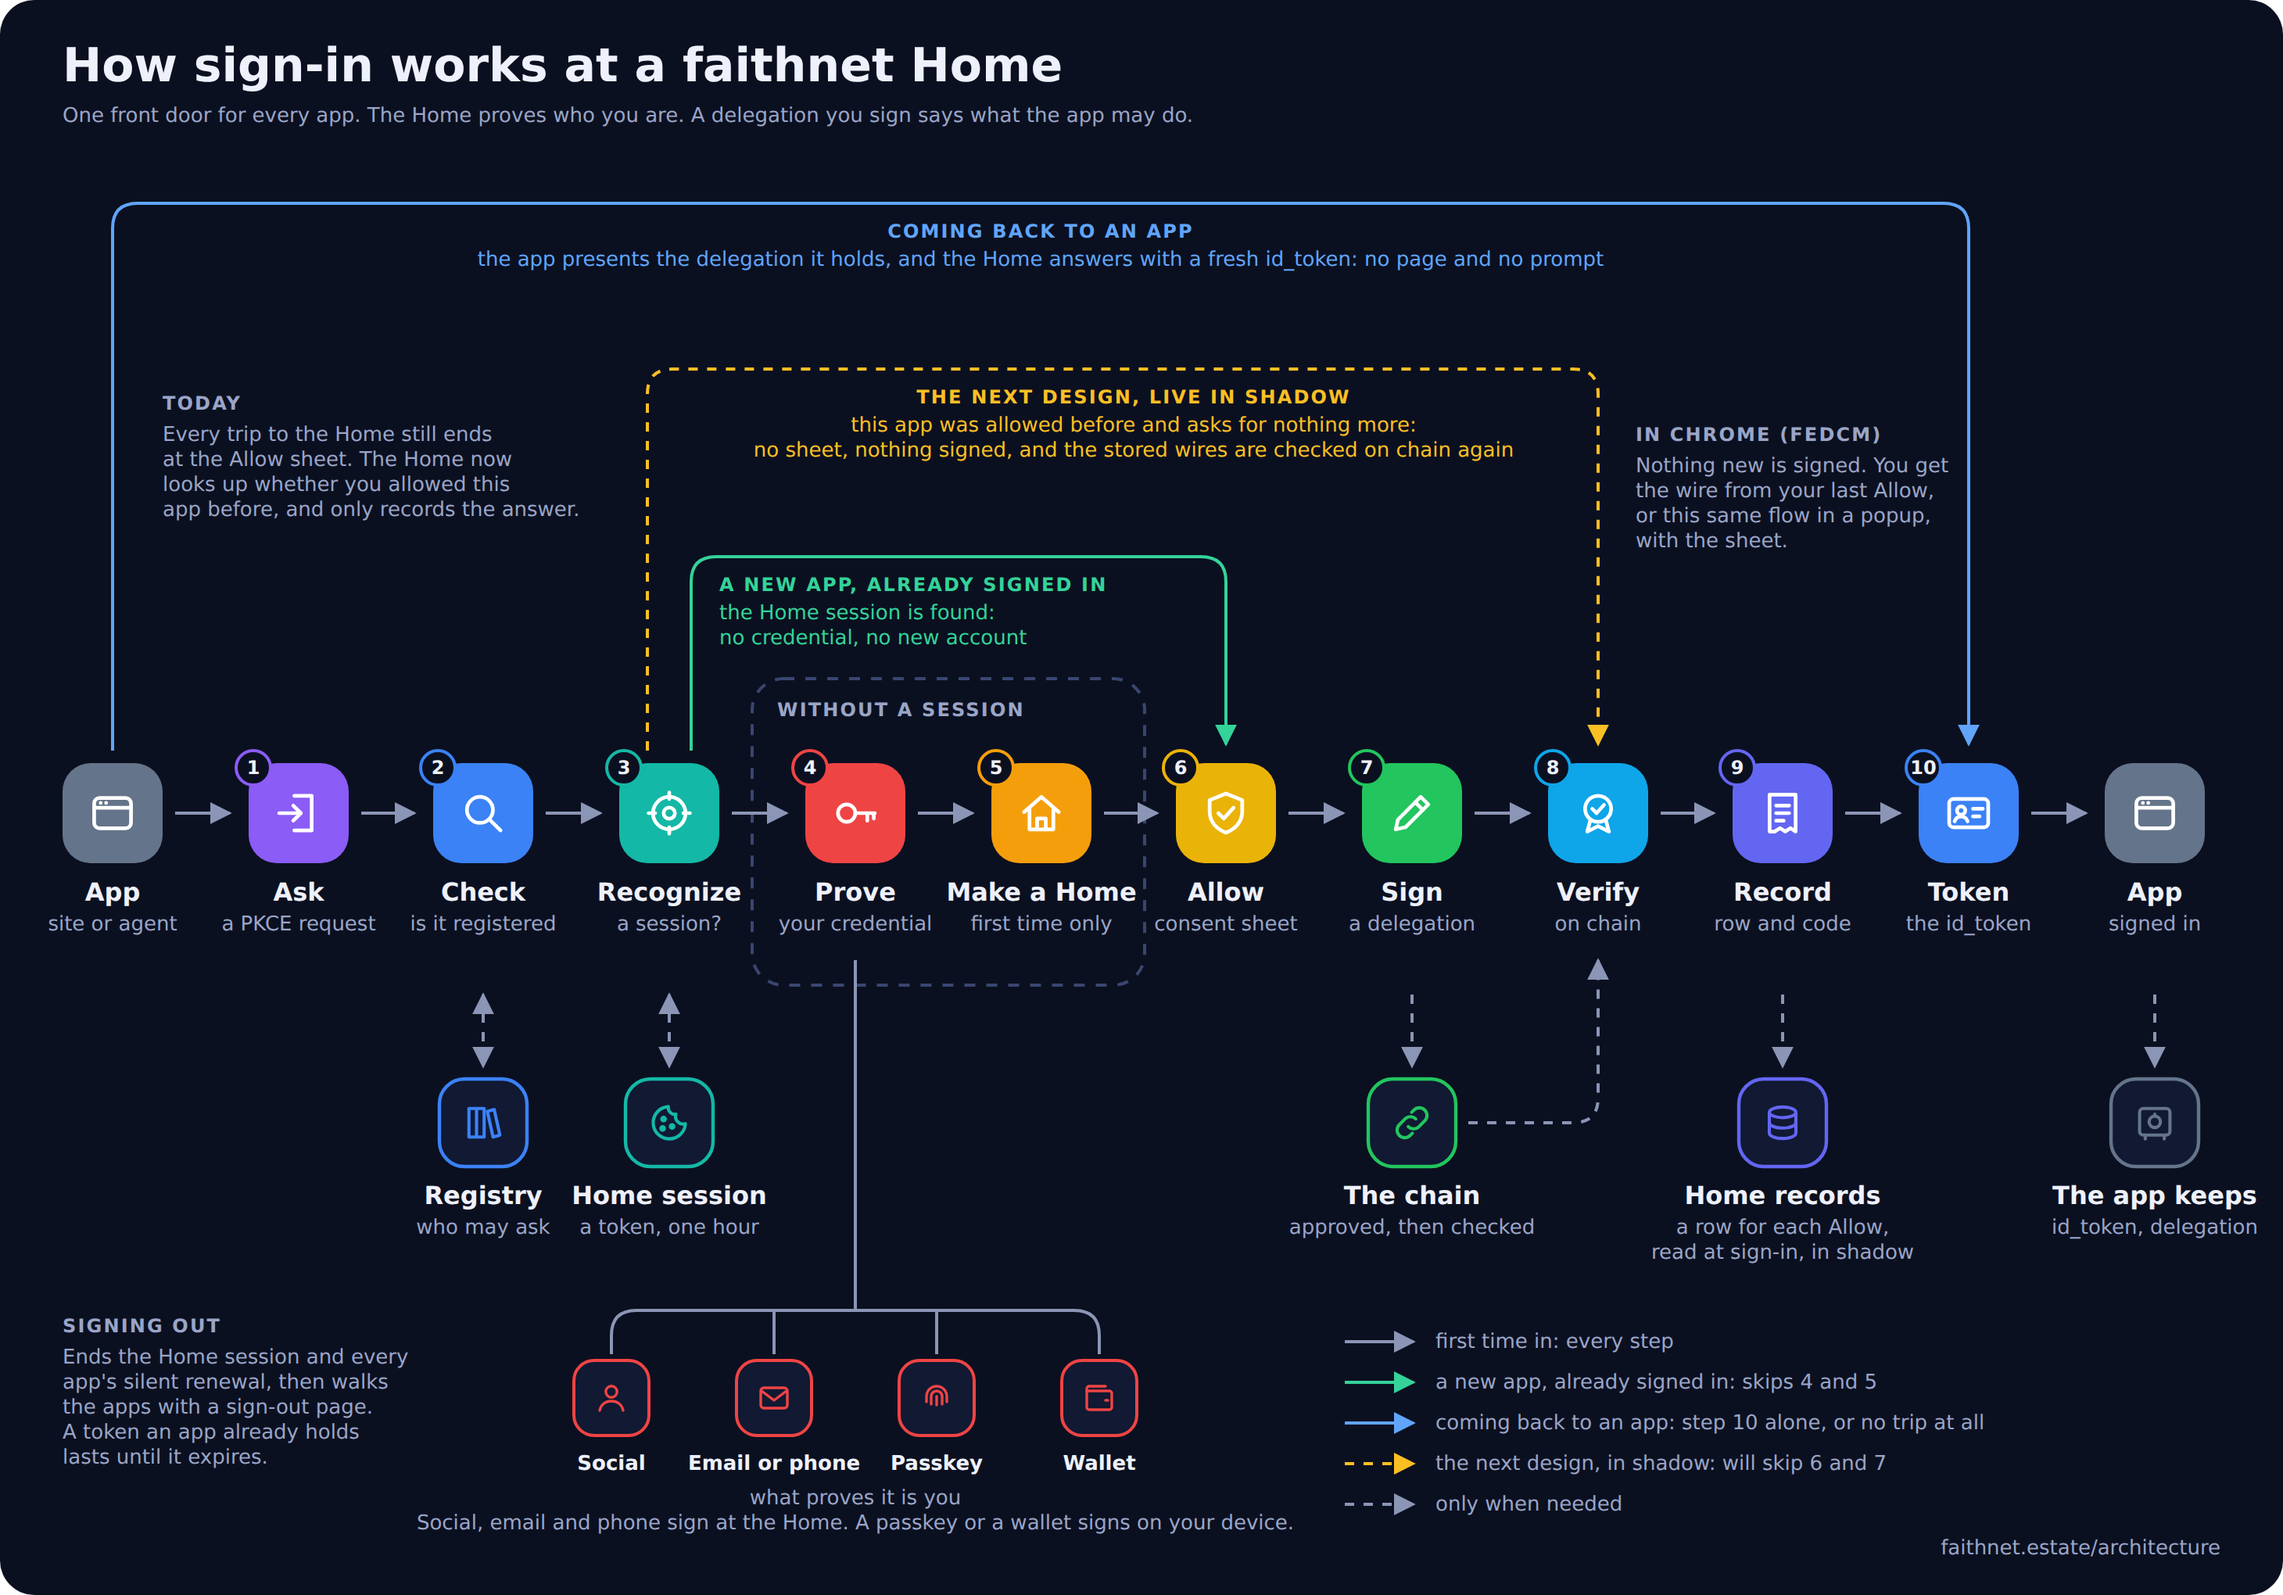
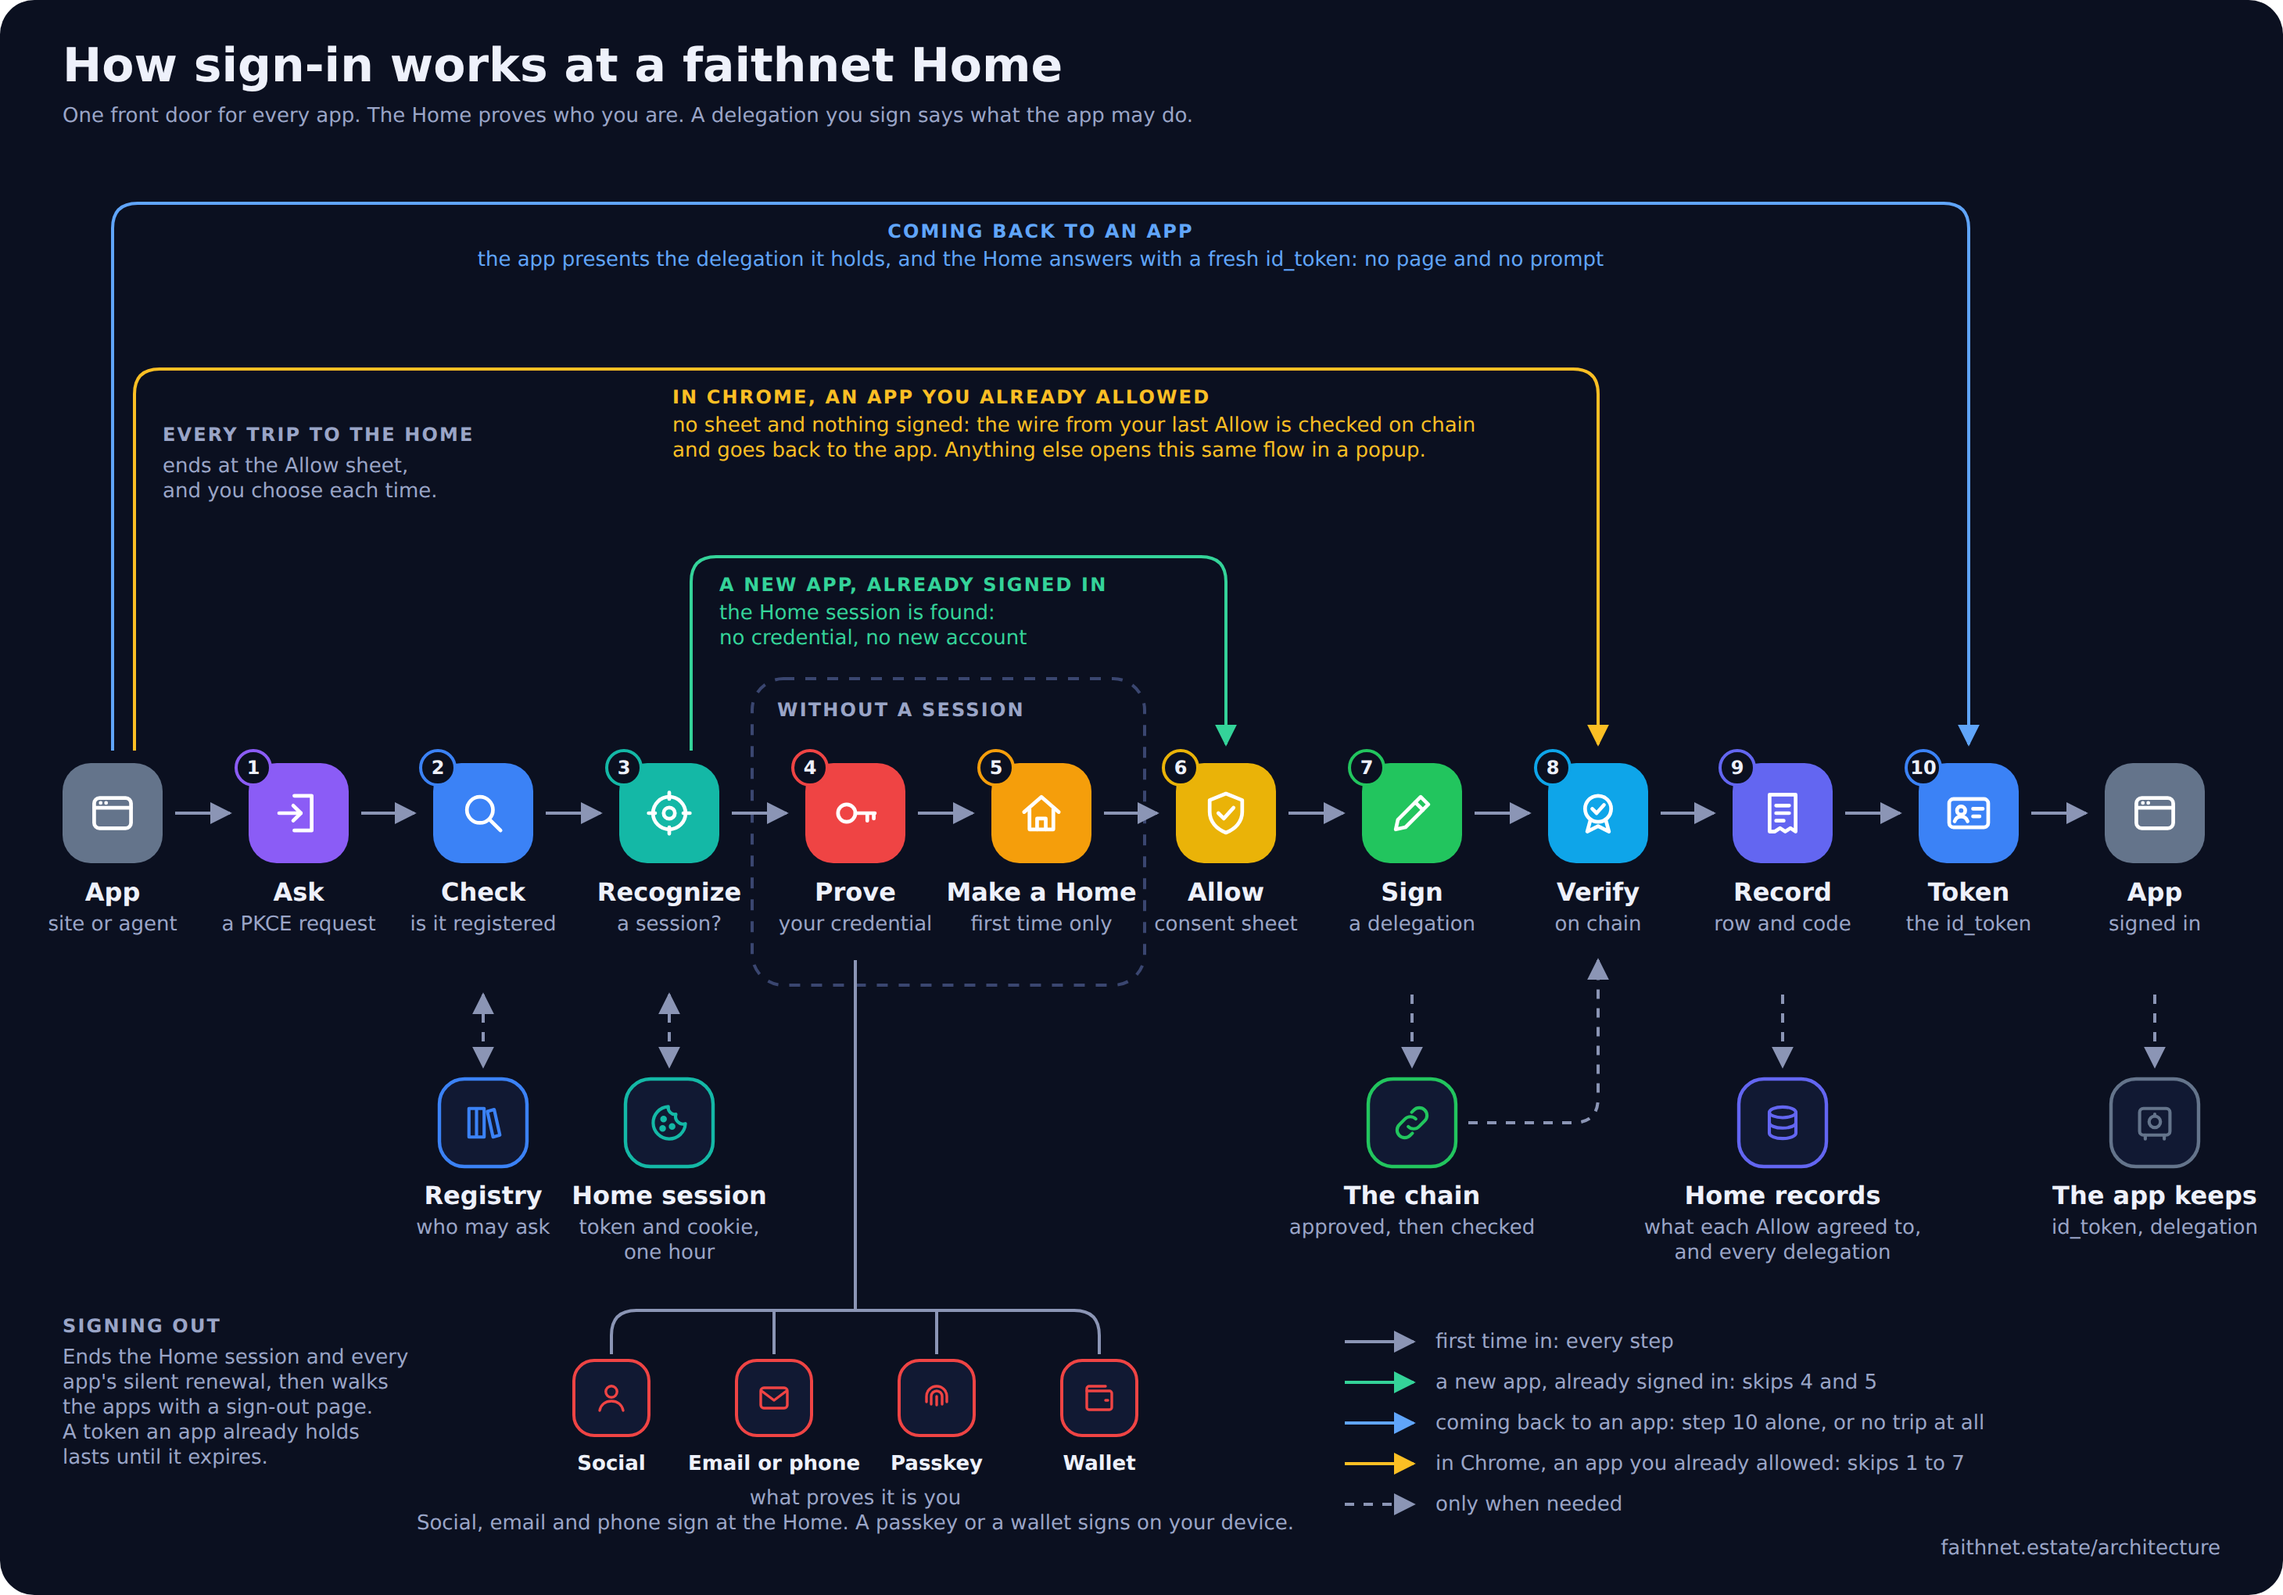
estate architecture: the sign-in picture shows only what is live
The design still in shadow comes off the picture, and Chrome's chooser, which is live, becomes an arc. The page keeps the design, and says it is not in the picture.

diff --git a/apps/estate/src/architecture.ts b/apps/estate/src/architecture.ts
@@ -554,11 +554,10 @@ const SUBSTRATE_BODY = `
 const SIGNIN_ALT =
   'A flow diagram. An app asks the Home to sign a person in. The Home checks the app against its registry and looks for a Home session. ' +
   'Without a session the person proves a credential and, the first time, a Home is made for them. Then the Allow sheet, a delegation the ' +
-  'person signs, its check on chain, a record with a single-use code, and the code exchanged for an id_token. Three arcs run above the row. ' +
+  'person signs, its check on chain, a record with a single-use code, and the code exchanged for an id_token. Arcs run above the row. ' +
   'A new app for a person already signed in goes from Recognize to Allow. An app that still holds its delegation goes straight to Token. ' +
-  'A designed path, live in shadow, records its decision and will go from Recognize to Verify, with no sheet and no new signature. ' +
-  'A note says that in Chrome, FedCM signs nothing new: it hands back the wire from the last Allow, or goes to a popup with the sheet. ' +
-  'Another says that signing out ends the Home session and every app\'s silent renewal, and walks the apps with a sign-out page of their own.';
+  'A fourth arc is for Chrome: an app the person already allowed gets the delegation from that Allow, checked on chain, with no sheet and nothing signed, and anything else opens the same flow in a popup. ' +
+  'A note says that signing out ends the Home session and every app\'s silent renewal, and walks the apps with a sign-out page of their own.';
 
 const HOME_PAGES = "The Home's pages, in the person's browser. The Home is a Next.js app (<code>apps/home</code>) at <code>www.faithnet.me</code>.";
 const HOME_SERVER = "The Home's server (<code>apps/home/server</code>). Tickets, codes and rows are kept in its key-value store, <code>AUTH_CODES</code>.";
@@ -821,7 +820,7 @@ const SIGNIN_BODY = `
 <p>"Not you?" is different. It ends the Home session so the person can choose who to be, and leaves their apps alone.</p>
 
 <h2 id="next-design">The next design: the Home remembers an Allow</h2>
-<p>Spec 445 is the design for the dashed amber arc. The code went live on 5 November 2026 in shadow: Seed Bible Reader decides and records, and still shows the sheet, so no app skips it yet. Everything above this section describes what a person meets today.</p>
+<p>Spec 445 is the design for skipping the sheet at the Home. The code went live on 5 November 2026 in shadow: Seed Bible Reader decides and records, and still shows the sheet, so no app skips it there yet. The picture shows what is live, so this is not in it. Everything above this section describes what a person meets today.</p>
 <p>A person who allowed an app is not asked again, as long as the app asks for nothing more and what they signed still holds. Nothing is signed on that visit. The app is handed the wires it already had, each checked on chain first.</p>
 
 <h3>Who is asking: a cookie script cannot read</h3>
@@ -938,7 +937,7 @@ const SIGNIN_BODY = `
 
 <h3>8. Is any of it built?</h3>
 <blockquote><p>"You already have a note about this but it has not been done yet."</p></blockquote>
-<p><b>Correct.</b> There are two notes and no code. <code>src/lib/sso-cookie.ts</code> carries a hardening note that a server-set HttpOnly cookie should replace the script-managed one. <code>EntryExperience.tsx</code> notes at <code>prompt=none</code> that there is no remembered-consent store yet. Nothing for either is live. In the picture this is the dashed amber arc.</p>
+<p><b>Correct.</b> There are two notes and no code. <code>src/lib/sso-cookie.ts</code> carries a hardening note that a server-set HttpOnly cookie should replace the script-managed one. <code>EntryExperience.tsx</code> notes at <code>prompt=none</code> that there is no remembered-consent store yet. Neither was live at the time.</p>
 <p>That is now moving: the design is <a href="#next-design">written up above</a> as spec 445, and the code is live in shadow.</p>
 
 <h3>In short</h3>
@@ -1376,7 +1375,7 @@ export const POSTS: Post[] = [
       'The path from pressing Sign in at an app to the app holding a delegation: what the Home checks, what the person signs, what is remembered, and what a second app or a return visit skips.',
     picture: {
       svg: '/architecture/sign-in-flow.svg', png: '/architecture/sign-in-flow.png', alt: SIGNIN_ALT, width: 1460, height: 1020,
-      caption: 'Grey arrows are a first sign-in. Green is a new app for a person already signed in. Blue is an app coming back. Dashed amber is the next design, live in shadow: it decides and records, and the sheet is still shown.',
+      caption: 'Grey arrows are a first sign-in. Green is a new app for a person already signed in. Blue is an app coming back. Amber is the browser chooser in Chrome, for an app the person already allowed.',
     },
     steps: SIGNIN_STEPS,
     byHeading: 'Who acts',

diff --git a/tests/e2e-estate/architecture.spec.ts b/tests/e2e-estate/architecture.spec.ts
@@ -73,12 +73,13 @@ test('sign-in: the next design is there, reachable from the callout, and every i
   await expect(page.locator('body')).not.toContainText('kept for up to thirty days');
 });
 
-test('sign-in: the picture says the arc is the next design, and the tiles link to their steps', async ({ page }) => {
+test('sign-in: the picture shows only what is live, and the tiles link to their steps', async ({ page }) => {
   const svg = await (await page.request.get('/architecture/sign-in-flow.svg')).text();
-  expect(svg).toContain('THE NEXT DESIGN, LIVE IN SHADOW');
+  expect(svg).not.toContain('NEXT DESIGN');
+  expect(svg).not.toContain('in shadow');
   expect(svg).not.toContain('PROPOSED');
   expect(svg).not.toContain('does not');
-  expect(svg).toContain('IN CHROME (FEDCM)');
+  expect(svg).toContain('IN CHROME, AN APP YOU ALREADY ALLOWED');
   expect(svg).toContain('SIGNING OUT');
   await page.goto('/architecture/sign-in');
   const picLinks = await page.locator('a[href^="#step-"]').count();
